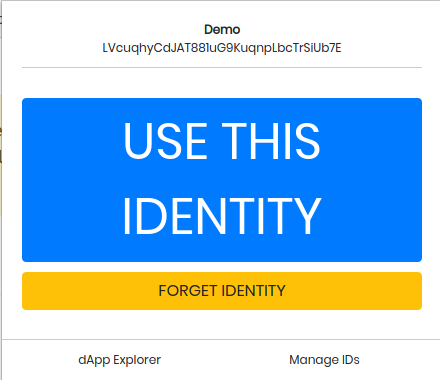
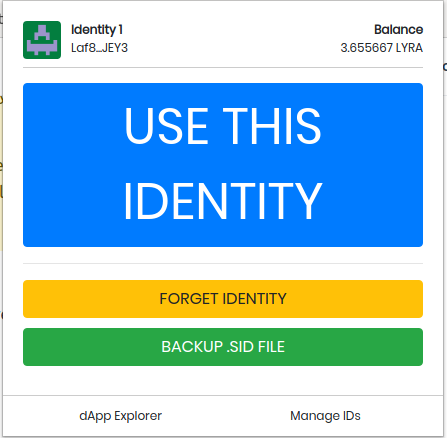
final draft

diff --git a/dapps/extension-browser.md b/dapps/extension-browser.md
@@ -1,6 +1,8 @@
 # Scrypta Browser Extension
 
-L'estensione di Scrypta per il browser è un utile strumento per creare, usare e gestire le identità di Scrypta su tutte le dApp online e offline.
+L'estensione di Scrypta per browser è un utile strumento per creare, usare e gestire le identità di Scrypta su tutte le dApps online e offline.
+
+![scrypta_id](../.vuepress/public/assets/scryptaid/banner.png)
 
 L'estensione del browser crea un ambiente protetto per il salvataggio e la gestione delle identità Scrypta (anche detti **.sid file**).
 Queste identità vengono iniettate direttamente nelle dApp Scrypta (quelle ufficiali per lo meno) e, tramite una semplice interfaccia grafica, si possono creare e modificare.
@@ -12,7 +14,10 @@ L'estensione è scaricabile sia sui browser Chromium (Chrome, Brave, Vivaldi, et
 - **Firefox Add-ons**: [https://addons.mozilla.org/en-US/firefox/addon/scryptaid/](https://addons.mozilla.org/en-US/firefox/addon/scryptaid/)
 
 ### Operazioni principali
-Una volta installata l'estensione nel browser, contraddistinta dall'icona <img src=".././.vuepress/public/assets/scryptaid/icon256.png" width="26">, al primo avvio ci verrà chiesto se vogliamo creare una nuova identità o importarne una già esistente.
+Una volta completata l'installazione dell'estensione nel vostro browser, in alto a destra comparirà il simbolo contraddistinto dall'icona <img src=".././.vuepress/public/assets/scryptaid/icon256.png" width="26">, disposto accanto alle altre estensioni gia' installate ![scrypta_id](../.vuepress/public/assets/scryptaid/ext.png)
+
+
+Al primo avvio dell'estensione, ci verrà chiesto se vogliamo creare una nuova identità o importarne una già esistente.
 
 ![scrypta_id](../.vuepress/public/assets/scryptaid/main.png)
 
@@ -22,26 +27,31 @@ Quando si avvia l'estensione per la prima volta, per creare un'identità è suff
 
 ![Create new Identity](../.vuepress/public/assets/scryptaid/create_id.png)
 
-Scegliere l'etichetta che contraddistingue l'identità che state creando, e scegliete una password **sicura**.
+Scegliere l'etichetta che contraddistingue l'identità che state creando, e scegliete una **password sicura**.
 ::: warning <img src=".././.vuepress/public/assets/icons/warning.svg" width="32">
 **ATTENZIONE:**<br>Poiche' il .sid file collegato alla vostra identità servirà per utilizzare tutte le dApps Scrypta, si raccomanda di annotare o cmq ricordare la password dell'identità.
 
 Perdendo la password non sarà piu' possibile recuperarla, perdendo ad esempio l'accesso ad eventuali fondi contenuti nel wallet, dati caricati tramite Manent e tutto cio' che è collegato a quella identità all'interno di tutte le dApps dell'ecosistema Scrypta.
 :::
+<br>
 
-Una volta creata l'dentità, si aprirà la pagina pricnipale dell'estensione dove potrete vedere **nome** e **indirizzo** associati all'identità in uso, oltre alle principali funzioni da utilizzare.
+Una volta creata l'dentità, si aprirà la pagina principale dell'estensione dove potrete vedere **nome** e **indirizzo** associati all'identità in uso, oltre alle principali funzioni da utilizzare.
 ![scrypta_id](../.vuepress/public/assets/scryptaid/id_screen.png)
 
 ### dApp Explorer
 Il dApp explorer fornisce dei collegamenti rapidi alle dApps ufficiali di Scrypta.
 
-![dApp Explorer](../.vuepress/public/assets/scryptaid/dapps_explorer.png)
-Cliccando sulla dApp di vostro interesse, verrete redirezionati alla pagina della dApp in questione.
-Una vollta arrivati nella pagina della dApp, aprite l'estensione e cliccate su **"USE THIS IDENTITY"**.
-La pagina si ricaricherà e avrete eseguito l'accesso!
+![dApp Explorer](../.vuepress/public/assets/scryptaid/dapps_explorer.png)<br>
+Cliccando sulla dApp di vostro interesse, verrete redirezionati alla pagina della dApp in questione.<br>
+Una volta arrivati nella pagina della dApp, aprite l'estensione e cliccate su **"USE THIS IDENTITY"**.
+<br>Quindi la pagina si ricaricherà e avrete eseguito l'accesso!
 
 ### Manage IDs
 
-Da questa schermata è possibile importare l'identità, cambiare identità principale oppure crearne di nuove. 
+Da questa schermata è possibile gestire una o più identità, cambiare identità principale, importare un'identità esistente o crearne di nuove. 
 
 ![Manage IDs](https://cdn.discordapp.com/attachments/550093442722562068/637218092715606057/unknown.png)
+
+Attraverso il tasto **"IMPORT IDENTITY"**, utilizzando un .sid file già in vostro possesso, sarà possibile importare una identità già esistente all'interno di Scrypta Extension Browser ed utilizzarla per le principali funzioni già descritte.
+
+![import](../.vuepress/public/assets/scryptaid/import.png)
